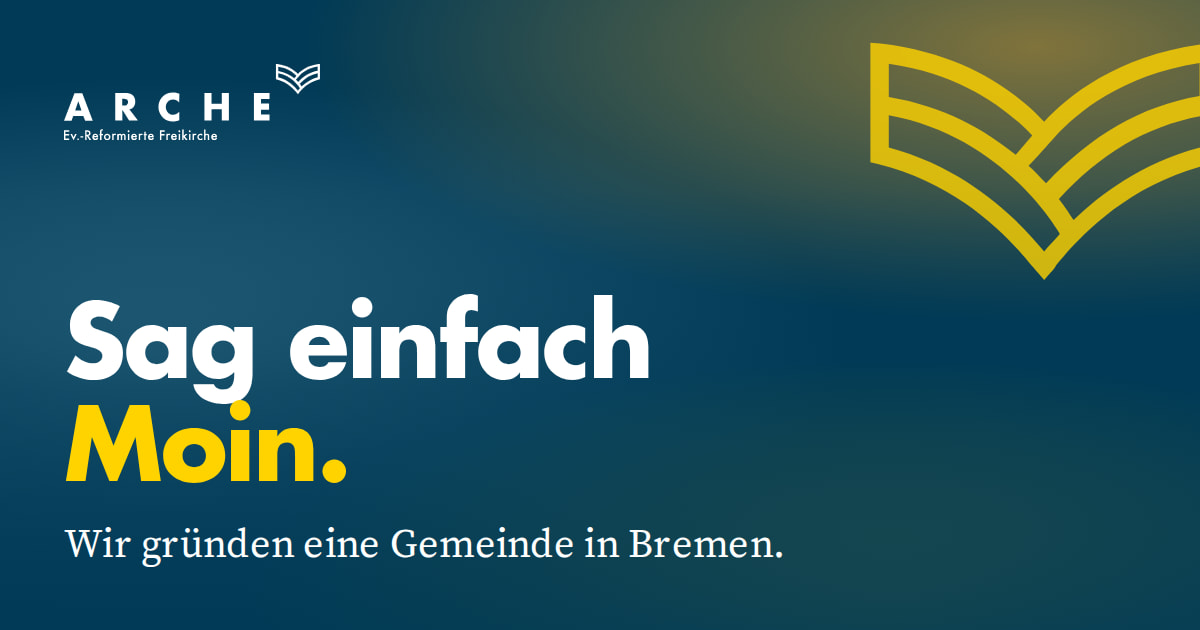
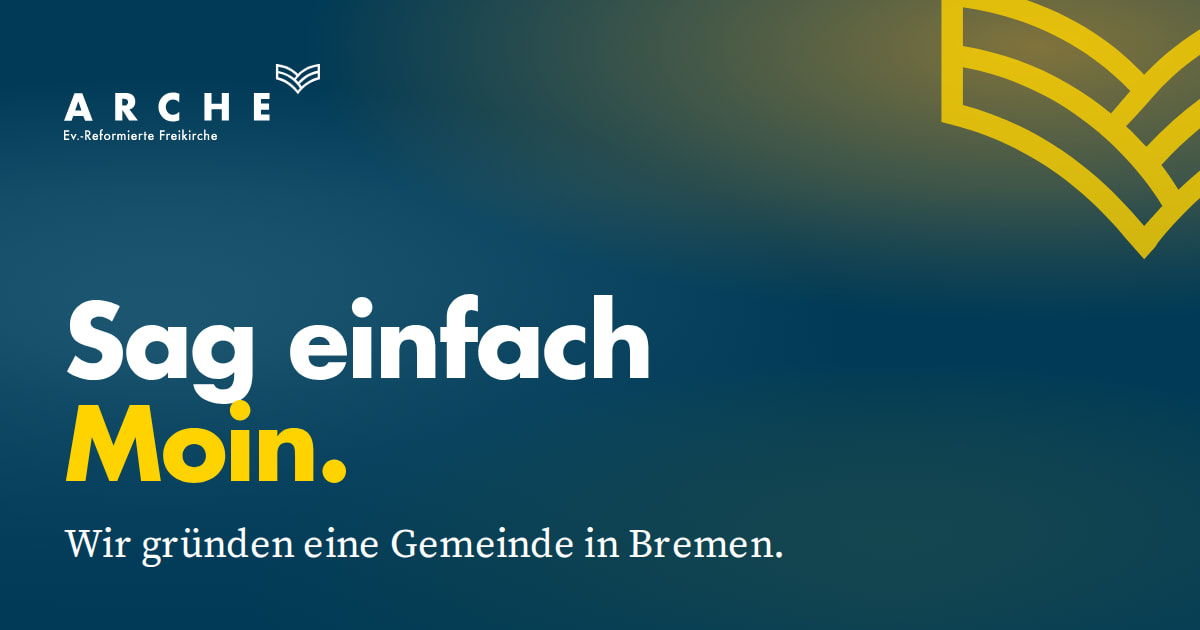
style: crop the arch on the link preview card like the hero
The arch sat almost complete in the corner and read as a second logo.
Now about a third extends past the right edge, as in the hero on the
phone, cropped at the top instead of the bottom because the text sits
below.

Claude-Session: https://claude.ai/code/session_01VeXA9VT5A7RDFtQSvPvYLK

Changed region(s): [[0.7092, 0.0, 1.0, 0.4524]]

diff --git a/src/assets/brand/og.html b/src/assets/brand/og.html
@@ -83,11 +83,17 @@
          behandelt eine lokal geöffnete Datei als eigene Herkunft und
          blockiert Masken aus Nachbardateien (CORS). Pfaddaten unverändert
          aus bogen.svg — ändert sich dort etwas, hier nachziehen. */
+      /* Angeschnitten wie im Hero auf dem Telefon: dort ragt rund ein
+         Drittel über die Kante (right: -20% bei 13rem Breite). Hier oben
+         statt unten, weil unten die Schrift steht — also rechts und oben
+         angeschnitten statt rechts und unten. Fast vollständig sichtbar
+         (bis September 2026: right: -3%) las er sich wie ein zweites Logo
+         statt wie ein Stilelement. */
       .mark {
         position: absolute;
-        top: 4%;
-        right: -3%;
-        width: 24rem;
+        top: -6%;
+        right: -14%;
+        width: 28rem;
         height: auto;
         color: var(--accent-warm);
         opacity: 0.8;
